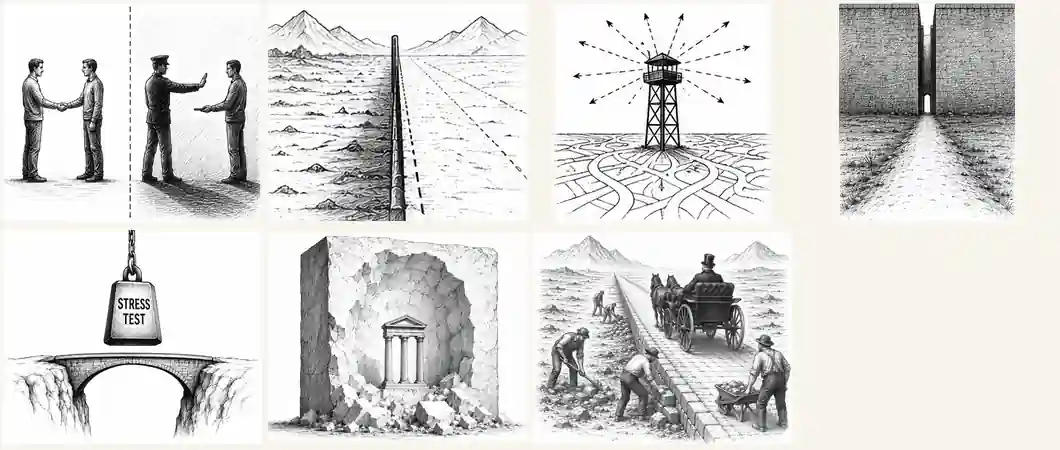
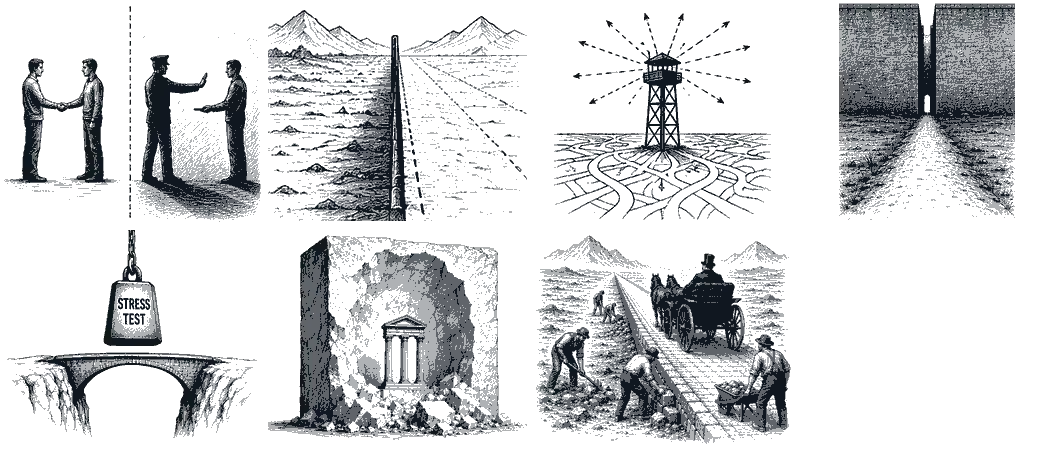
Blend original manuscript illustrations naturally into page backgrounds

diff --git a/src/styles/global.css b/src/styles/global.css
@@ -1462,7 +1462,7 @@ main .section-action{margin-top:22px;display:flex;justify-content:flex-start}
 .manuscript-copy{min-width:0}
 .manuscript-copy>p:not(.eyebrow){max-width:750px;text-align:left!important;hyphens:none!important}
 .manuscript-scene{margin:0;min-width:0;max-width:310px;width:100%;align-self:center;justify-self:center;background:none;border:0;box-shadow:none;overflow:visible}
-.manuscript-scene .scene-picture{display:block;width:100%;aspect-ratio:265/225;background-image:url('/images/manuscript-scenes.webp');background-size:400% 200%;background-repeat:no-repeat;mix-blend-mode:multiply}
+.manuscript-scene .scene-picture{display:block;width:100%;aspect-ratio:265/225;background-image:url('/images/manuscript-scenes.webp');background-size:400% 200%;background-repeat:no-repeat;mix-blend-mode:normal}
 .manuscript-scene .scene-home{background-position:0% 0%}
 .manuscript-scene .scene-questions{background-position:33.333333% 0%}
 .manuscript-scene .scene-theory{background-position:66.666667% 0%}
